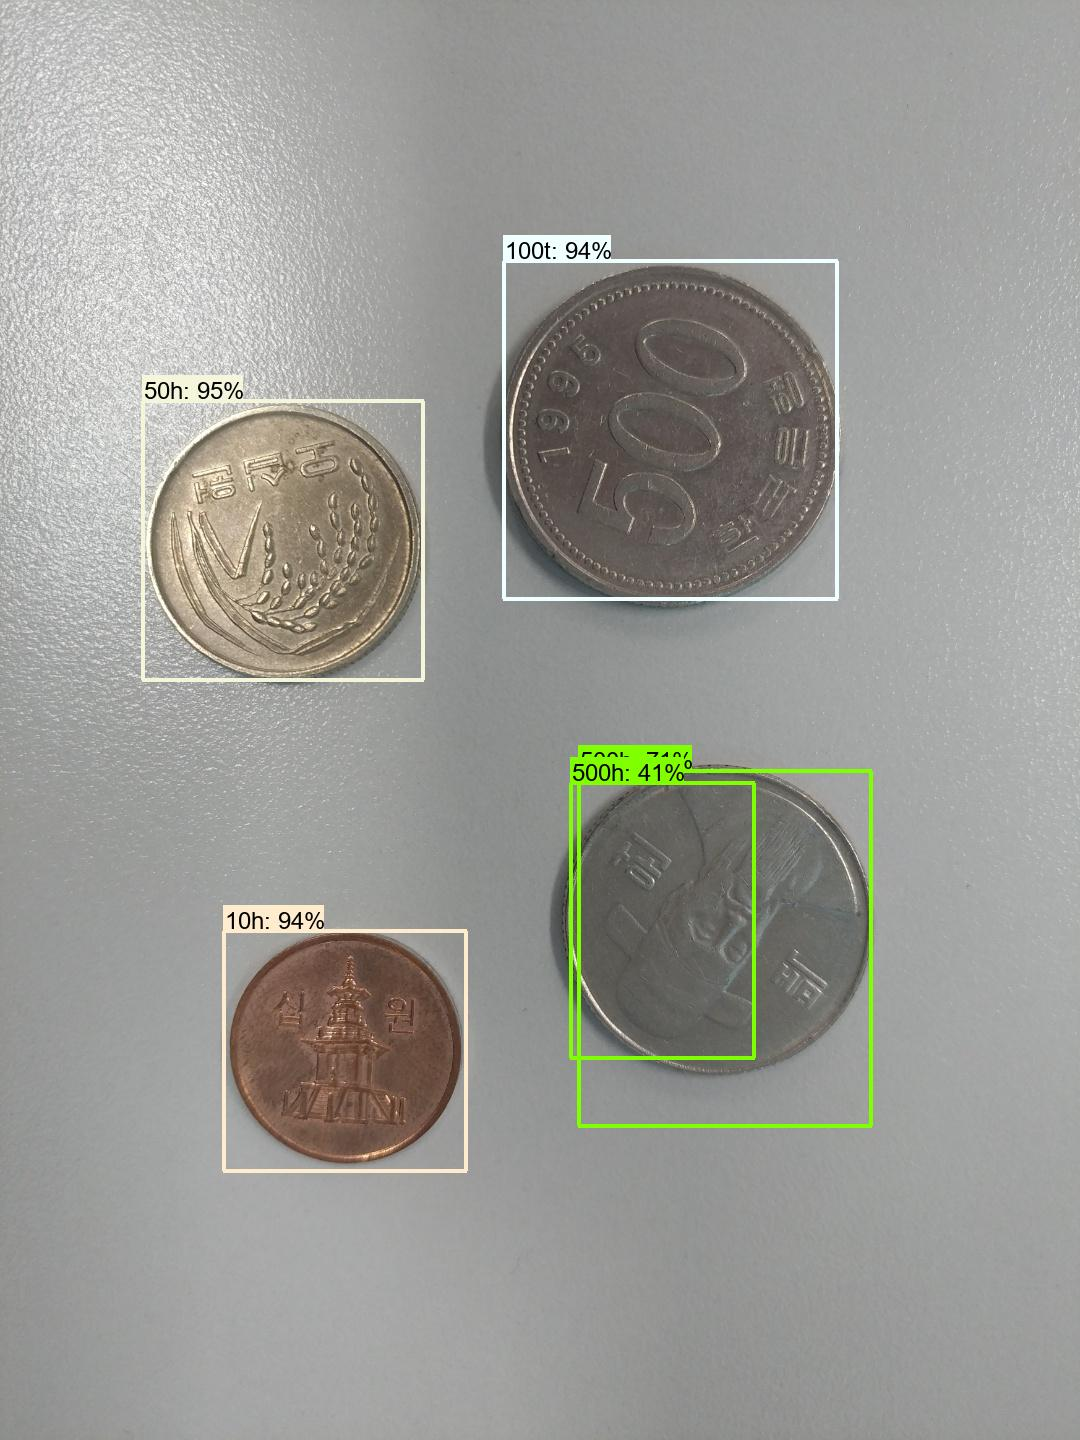
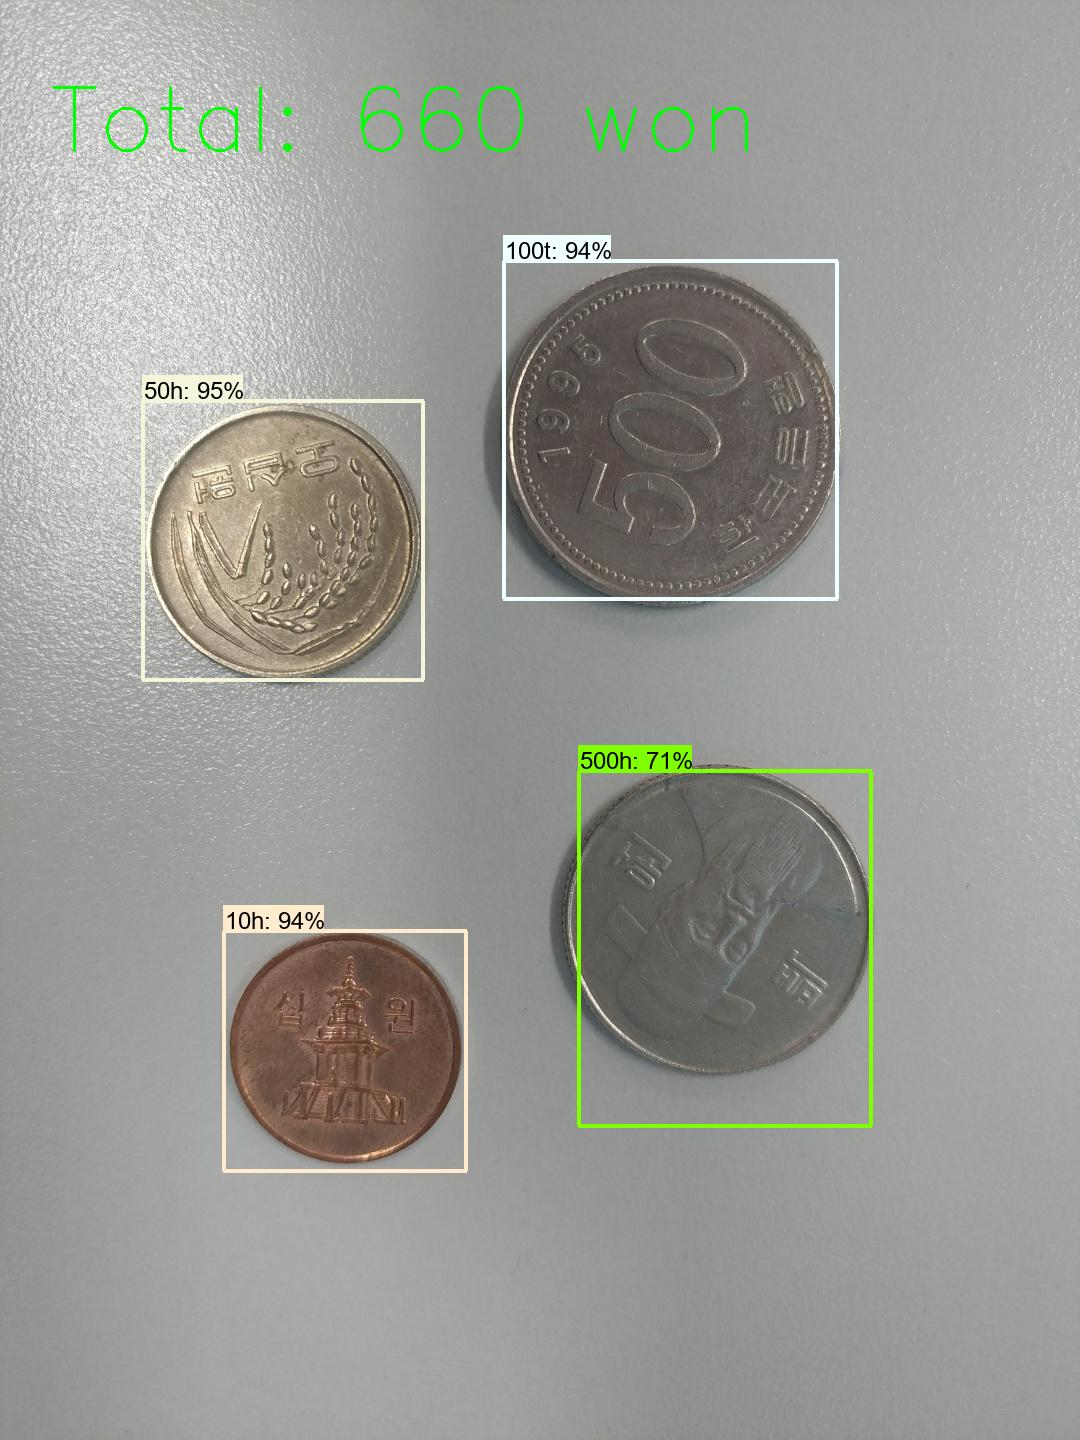
Change output show photo.

diff --git a/count_coin.py b/count_coin.py
@@ -2,6 +2,7 @@ import os
 import time
 import pathlib
 import argparse
+import cv2 as cv
 import numpy as np
 from PIL import Image
 import tensorflow as tf
@@ -11,6 +12,15 @@ from object_detection.utils import visualization_utils as viz_utils
 
 def load_image_to_numpy_array(path):
     return np.array(Image.open(path))
+
+def compute_money(detections, min_score_thresh=.7):
+
+    money_value = {1: 10, 2: 10, 3: 50, 4: 50, 5: 100, 6: 100, 7: 500, 8: 500}
+    money = 0
+    for mclass, score in zip(detections['detection_classes'], detections['detection_scores']):
+        if score > min_score_thresh:
+            money += money_value[mclass]
+    return money
 
 parser = argparse = argparse.ArgumentParser()
 parser.add_argument('--image_path')    
@@ -55,8 +65,12 @@ viz_utils.visualize_boxes_and_labels_on_image_array(
       category_index,
       use_normalized_coordinates=True,
       max_boxes_to_draw=20,
-      min_score_thresh=.30,
+      min_score_thresh=.7,
       agnostic_mode=False)
+
+money = compute_money(detections, min_score_thresh=.7)
+cv.putText(image_np_with_detections, f'Total: {money} won', (50, 150),
+           cv.FONT_HERSHEY_SIMPLEX, 3, (0, 255, 0), 2)
 
 image = Image.fromarray(image_np_with_detections)
 image.save('data/toshow/output1.jpg')
